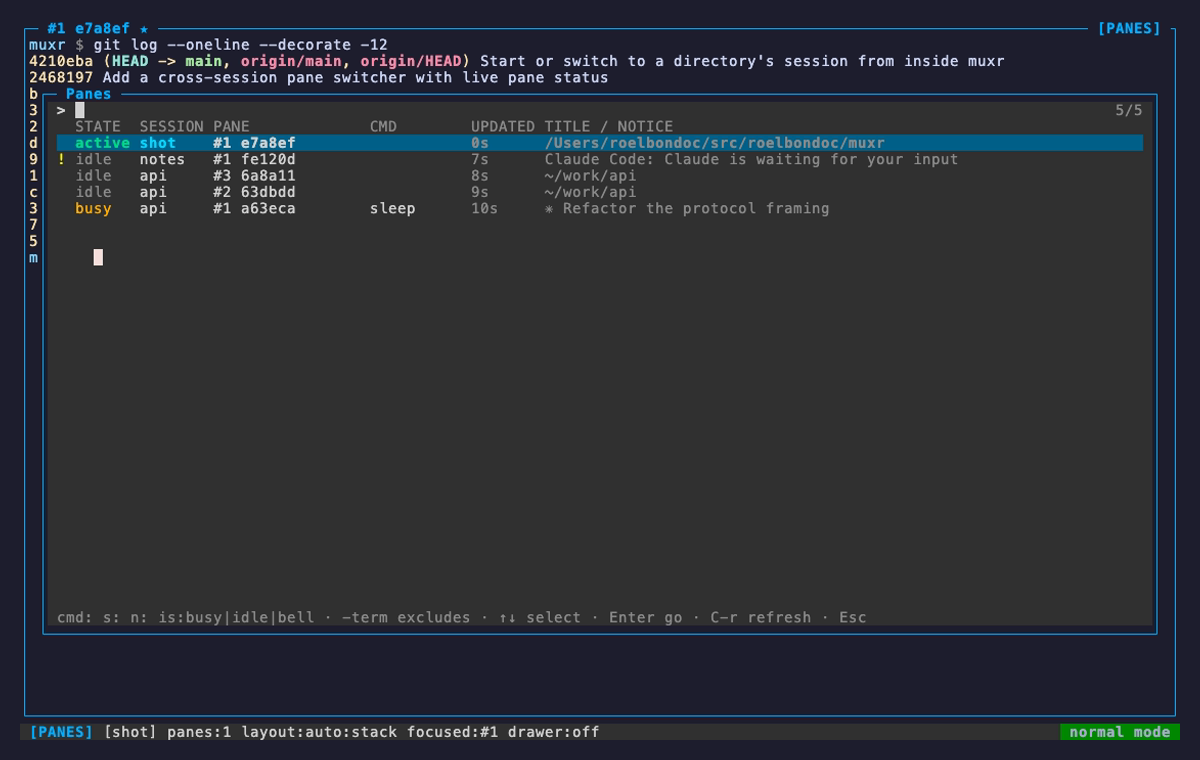
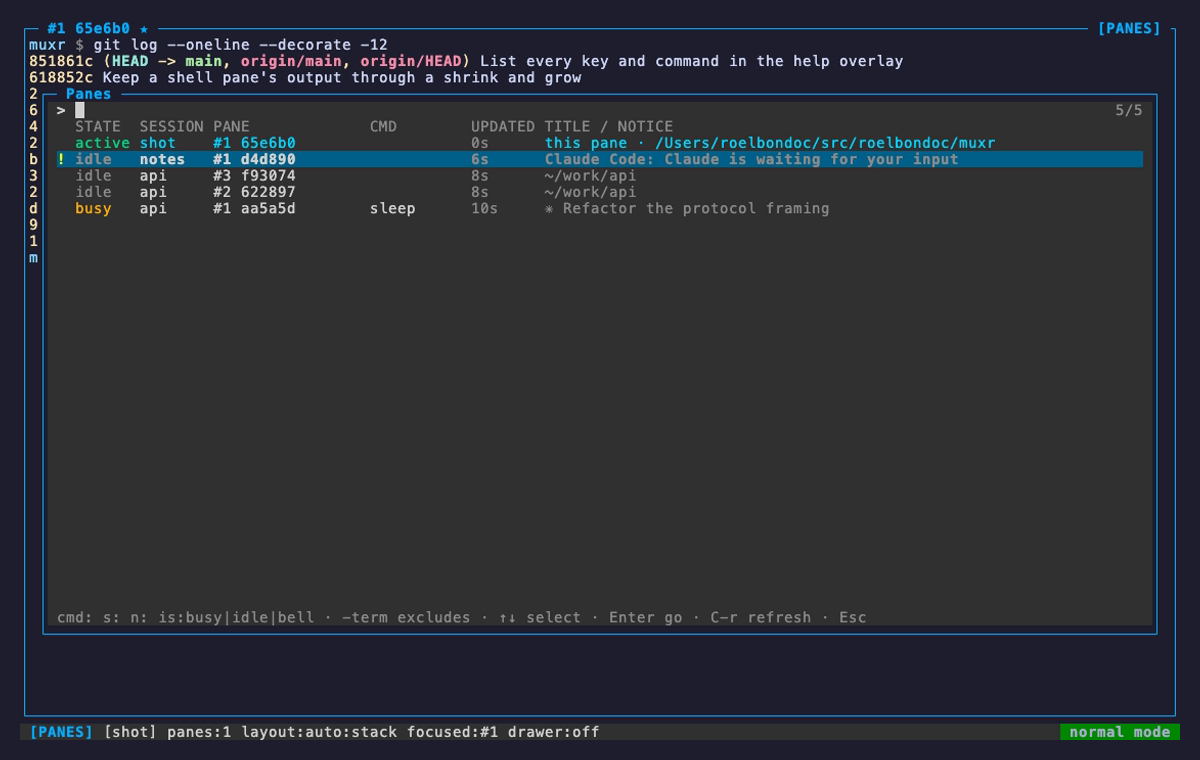
Mark the current pane in the switcher and hide the cursor under overlays
Changes:

**Stray cursor**
- Renderer#cursor_position hides the terminal cursor while the switcher,
  the new-session prompt or help is open, as it already did for the pane
  picker; it used to fall through to the focused pane's cursor and draw a
  block inside the overlay

**Current pane**
- SessionDirectory::Entry#current? (here and focused) marks the pane you
  are on; the switcher draws its PANE cell in cyan and leads its title
  with "this pane"
- PaneSwitcher starts the selection on the most recent other pane, on
  opening and after each filter change, falling back to the current pane
  only when it is the only match

**Testing**
- Cursor, label and default-selection tests in test_application_switch.rb
  and test_pane_filter.rb; the cursor and label tests fail on the old code
- Reshot the switcher and new-session screenshots

Changed region(s): [[0.0, 0.0303, 0.9558, 0.3026], [0.0617, 0.3329, 0.0925, 0.3632]]

diff --git a/lib/muxr/renderer.rb b/lib/muxr/renderer.rb
@@ -819,7 +819,7 @@ module Muxr
       when :session
         [tail_truncate(entry.session, width), entry.here ? PICKER_SESSION_FG : PICKER_FG]
       when :pane
-        ["##{entry.slot} #{entry.name || entry.pane_id}", PICKER_FG]
+        ["##{entry.slot} #{entry.name || entry.pane_id}", entry.current? ? PICKER_SESSION_FG : PICKER_FG]
       when :command
         [entry.command.to_s, PICKER_FG]
       when :idle
@@ -827,9 +827,13 @@ module Muxr
       when :cwd
         [tail_truncate(shorten_path(entry.cwd), width), PICKER_DIM_FG]
       when :detail
-        [entry.title || entry.notice || (cwd_shown ? "" : shorten_path(entry.cwd)), PICKER_DIM_FG]
+        detail = entry.title || entry.notice || (cwd_shown ? "" : shorten_path(entry.cwd))
+        return [detail, PICKER_DIM_FG] unless entry.current?
+        [[CURRENT_PANE_LABEL, detail].reject(&:empty?).join(" · "), PICKER_SESSION_FG]
       end
     end
+
+    CURRENT_PANE_LABEL = "this pane".freeze
 
     def switcher_attention(entry)
       if entry.bell then "!"
@@ -1102,8 +1106,10 @@ module Muxr
       !Terminal.box_wide && Terminal::BOX_RANGES.any? { |r| r.cover?(cp) }
     end
 
+    OVERLAY_STATES = %i[pane_picker switcher directory_prompt help].freeze
+
     def cursor_position(session, input_state:, command_buffer:, search_buffer: "")
-      return "\e[?25l" if input_state == :pane_picker
+      return "\e[?25l" if OVERLAY_STATES.include?(input_state)
       if input_state == :command
         col = 1 + command_buffer.length + 1 # ':' + buffer
         return "\e[#{session.height};#{col}H\e[?25h"

diff --git a/test/test_application_switch.rb b/test/test_application_switch.rb
@@ -231,4 +231,35 @@ class TestRendererSwitcher < Minitest::Test
     assert_includes painted, "Fixing"
     assert_includes painted, "#2"
   end
+
+  def switcher_frame(entries, state: :switcher)
+    session = Muxr::Session.new(name: "spec", width: 140, height: 20)
+    terminal = Muxr::Terminal.new(rows: 5, cols: 20)
+    pane = Struct.new(:rect, :terminal) { def resize(*); end }.new(nil, terminal)
+    session.window.add_pane(pane)
+    out = StringIO.new
+    Muxr::Renderer.new(out: out).render(session, input_state: state, switcher: Muxr::PaneSwitcher.new(entries))
+    out.string
+  end
+
+  def entry(**fields)
+    Muxr::SessionDirectory::Entry.new(session: "spec", pane_id: "abc123", slot: 1, state: "idle", **fields)
+  end
+
+  def test_the_pane_you_are_on_is_labelled
+    painted = switcher_frame([entry(here: true, focused: true, title: "vim"), entry(pane_id: "def456", slot: 2, here: true)])
+    assert_includes painted, "this pane"
+    assert_equal 1, painted.scan("this pane").length
+  end
+
+  def test_the_focused_pane_of_another_session_is_not_labelled
+    refute_includes switcher_frame([entry(session: "other", focused: true)]), "this pane"
+  end
+
+  def test_the_real_cursor_stays_hidden_under_the_overlays
+    %i[switcher pane_picker directory_prompt help].each do |state|
+      painted = switcher_frame([entry], state: state)
+      refute_includes painted, "\e[?25h", "cursor shown under #{state}"
+    end
+  end
 end

diff --git a/test/test_pane_filter.rb b/test/test_pane_filter.rb
@@ -134,3 +134,30 @@ class TestSessionDirectoryOrder < Minitest::Test
     assert_equal %w[fresh tie-a tie-b old unknown], sorted.map(&:pane_id)
   end
 end
+
+class TestPaneSwitcherDefault < Minitest::Test
+  def entry(id, here: false, focused: false, command: nil)
+    Muxr::SessionDirectory::Entry.new(session: "s", pane_id: id, here: here, focused: focused, command: command)
+  end
+
+  def test_the_selection_starts_on_the_last_other_pane
+    switcher = Muxr::PaneSwitcher.new([entry("mine", here: true, focused: true), entry("other"), entry("older")])
+    assert_equal "other", switcher.selected.pane_id
+  end
+
+  def test_the_focused_pane_of_another_session_is_not_skipped
+    switcher = Muxr::PaneSwitcher.new([entry("theirs", focused: true), entry("other")])
+    assert_equal "theirs", switcher.selected.pane_id
+  end
+
+  def test_filtering_skips_the_current_pane_too
+    switcher = Muxr::PaneSwitcher.new([entry("mine", here: true, focused: true, command: "vim"), entry("other", command: "vim"), entry("x")])
+    "cmd:vim".each_char { |ch| switcher.type(ch) }
+    assert_equal "other", switcher.selected.pane_id
+  end
+
+  def test_the_current_pane_is_selected_when_it_is_the_only_match
+    switcher = Muxr::PaneSwitcher.new([entry("mine", here: true, focused: true)])
+    assert_equal "mine", switcher.selected.pane_id
+  end
+end

diff --git a/lib/muxr/pane_switcher.rb b/lib/muxr/pane_switcher.rb
@@ -7,8 +7,8 @@ module Muxr
     def initialize(entries, query: "")
       @entries = entries
       @query = +query.to_s
-      @index = 0
       apply_filter
+      @index = default_index
     end
 
     def empty?
@@ -51,8 +51,12 @@ module Muxr
     private
 
     def refilter
-      @index = 0
       apply_filter
+      @index = default_index
+    end
+
+    def default_index
+      @rows.index { |entry| !entry.current? } || 0
     end
 
     def apply_filter

diff --git a/lib/muxr/session_directory.rb b/lib/muxr/session_directory.rb
@@ -26,6 +26,10 @@ module Muxr
         !!(bell || activity || silent)
       end
 
+      def current?
+        !!(here && focused)
+      end
+
       def self.from_listing(session, socket_path, pane, here: false)
         new(
           session: session,

diff --git a/CHANGELOG.md b/CHANGELOG.md
@@ -42,6 +42,11 @@ follow [Semantic Versioning](https://semver.org/spec/v2.0.0.html).
 - `:new` no longer opens a pane; use `:new_pane` (or `:c`, `c`, `C-a c`).
 
 ### Fixed
+- The pane switcher, the new-session prompt and help no longer show the
+  terminal cursor underneath them, at the focused pane's cursor position.
+- The switcher labels the pane you are on as `this pane`, and its selection
+  starts on the most recent other pane, both on opening and as you type, so
+  `Enter` never just lands you where you already are.
 - The `?` help lists every passthrough key (`C-a 1..9`, `~ C P`, `: ?`,
   `d q`) and every command (`private`, `master`, `detach`, `help` were
   missing). Tests now check it against the binding tables and the command

diff --git a/README.md b/README.md
@@ -497,7 +497,9 @@ session, it is detached (as `tmux attach -d` would), so one tab can hold
 everything.
 
 Panes are listed most recently updated first, so whatever just printed sits
-at the top. Each row shows what muxr knows about the pane, whatever is running
+at the top. The pane you are on stays in the list, drawn in cyan and labelled
+`this pane`, and the selection starts on the most recent pane other than it,
+so `o` `Enter` flips between your two latest panes. Each row shows what muxr knows about the pane, whatever is running
 in it:
 
 | Column | Source |
